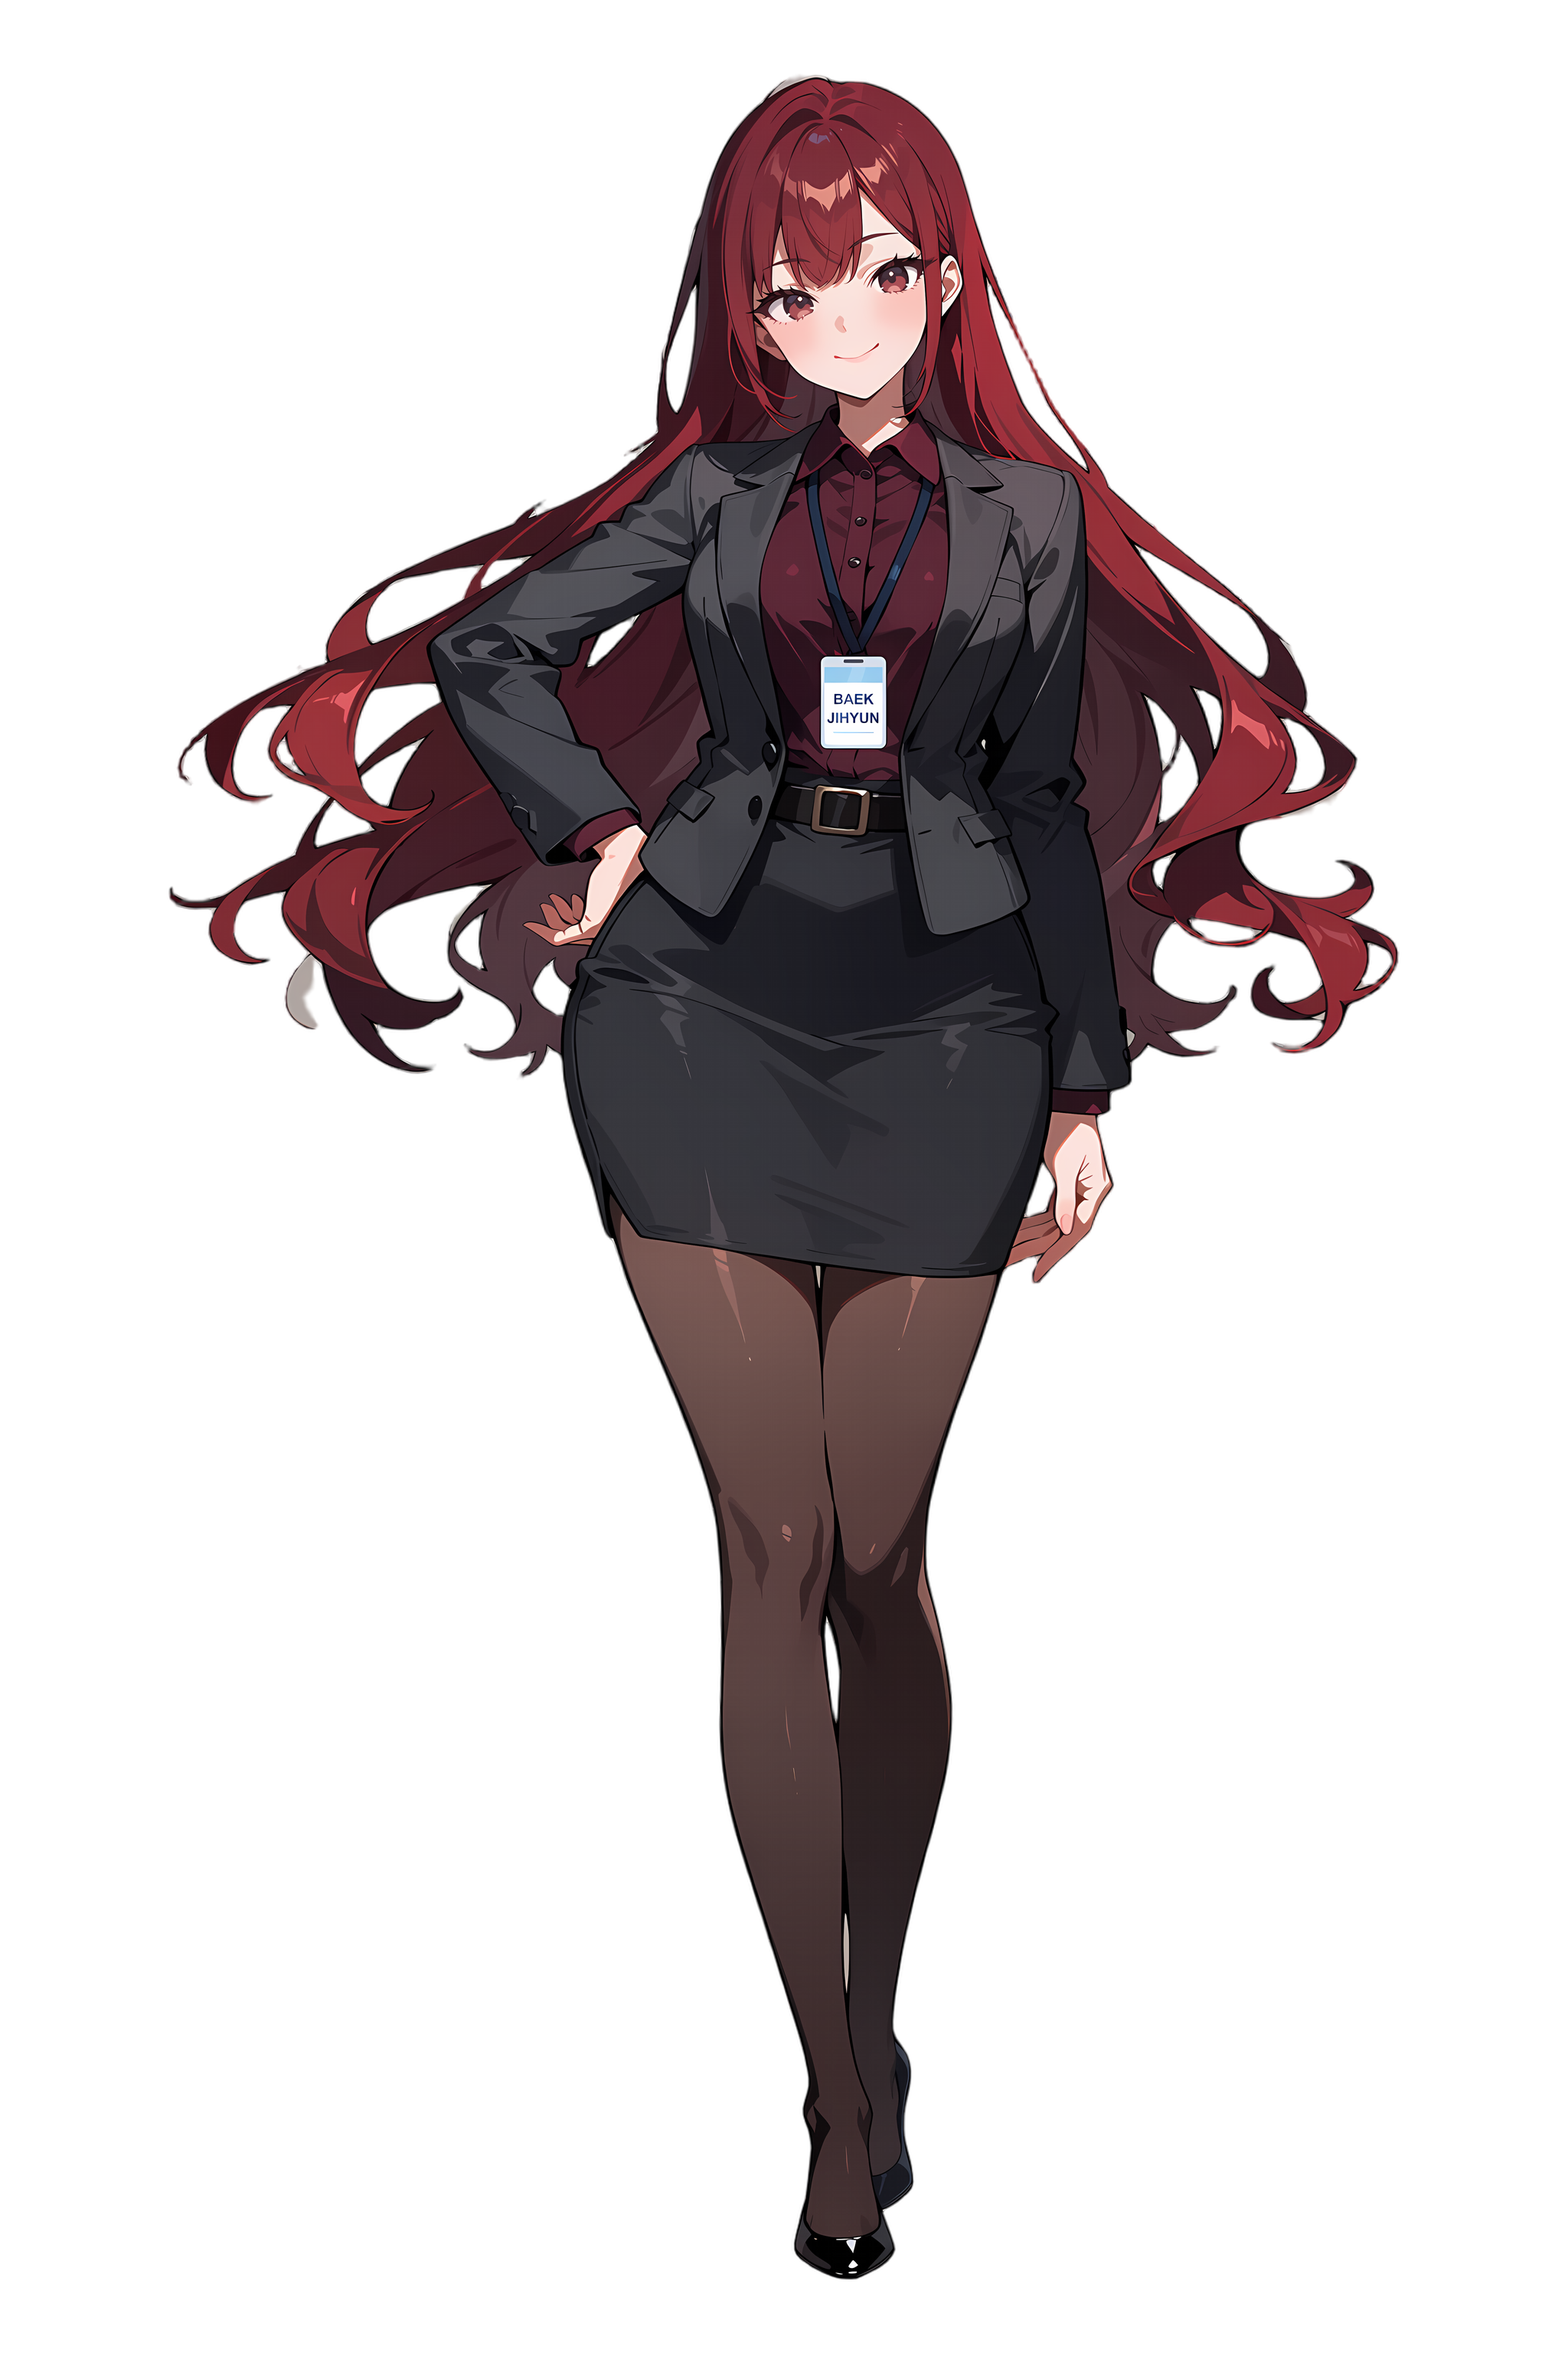
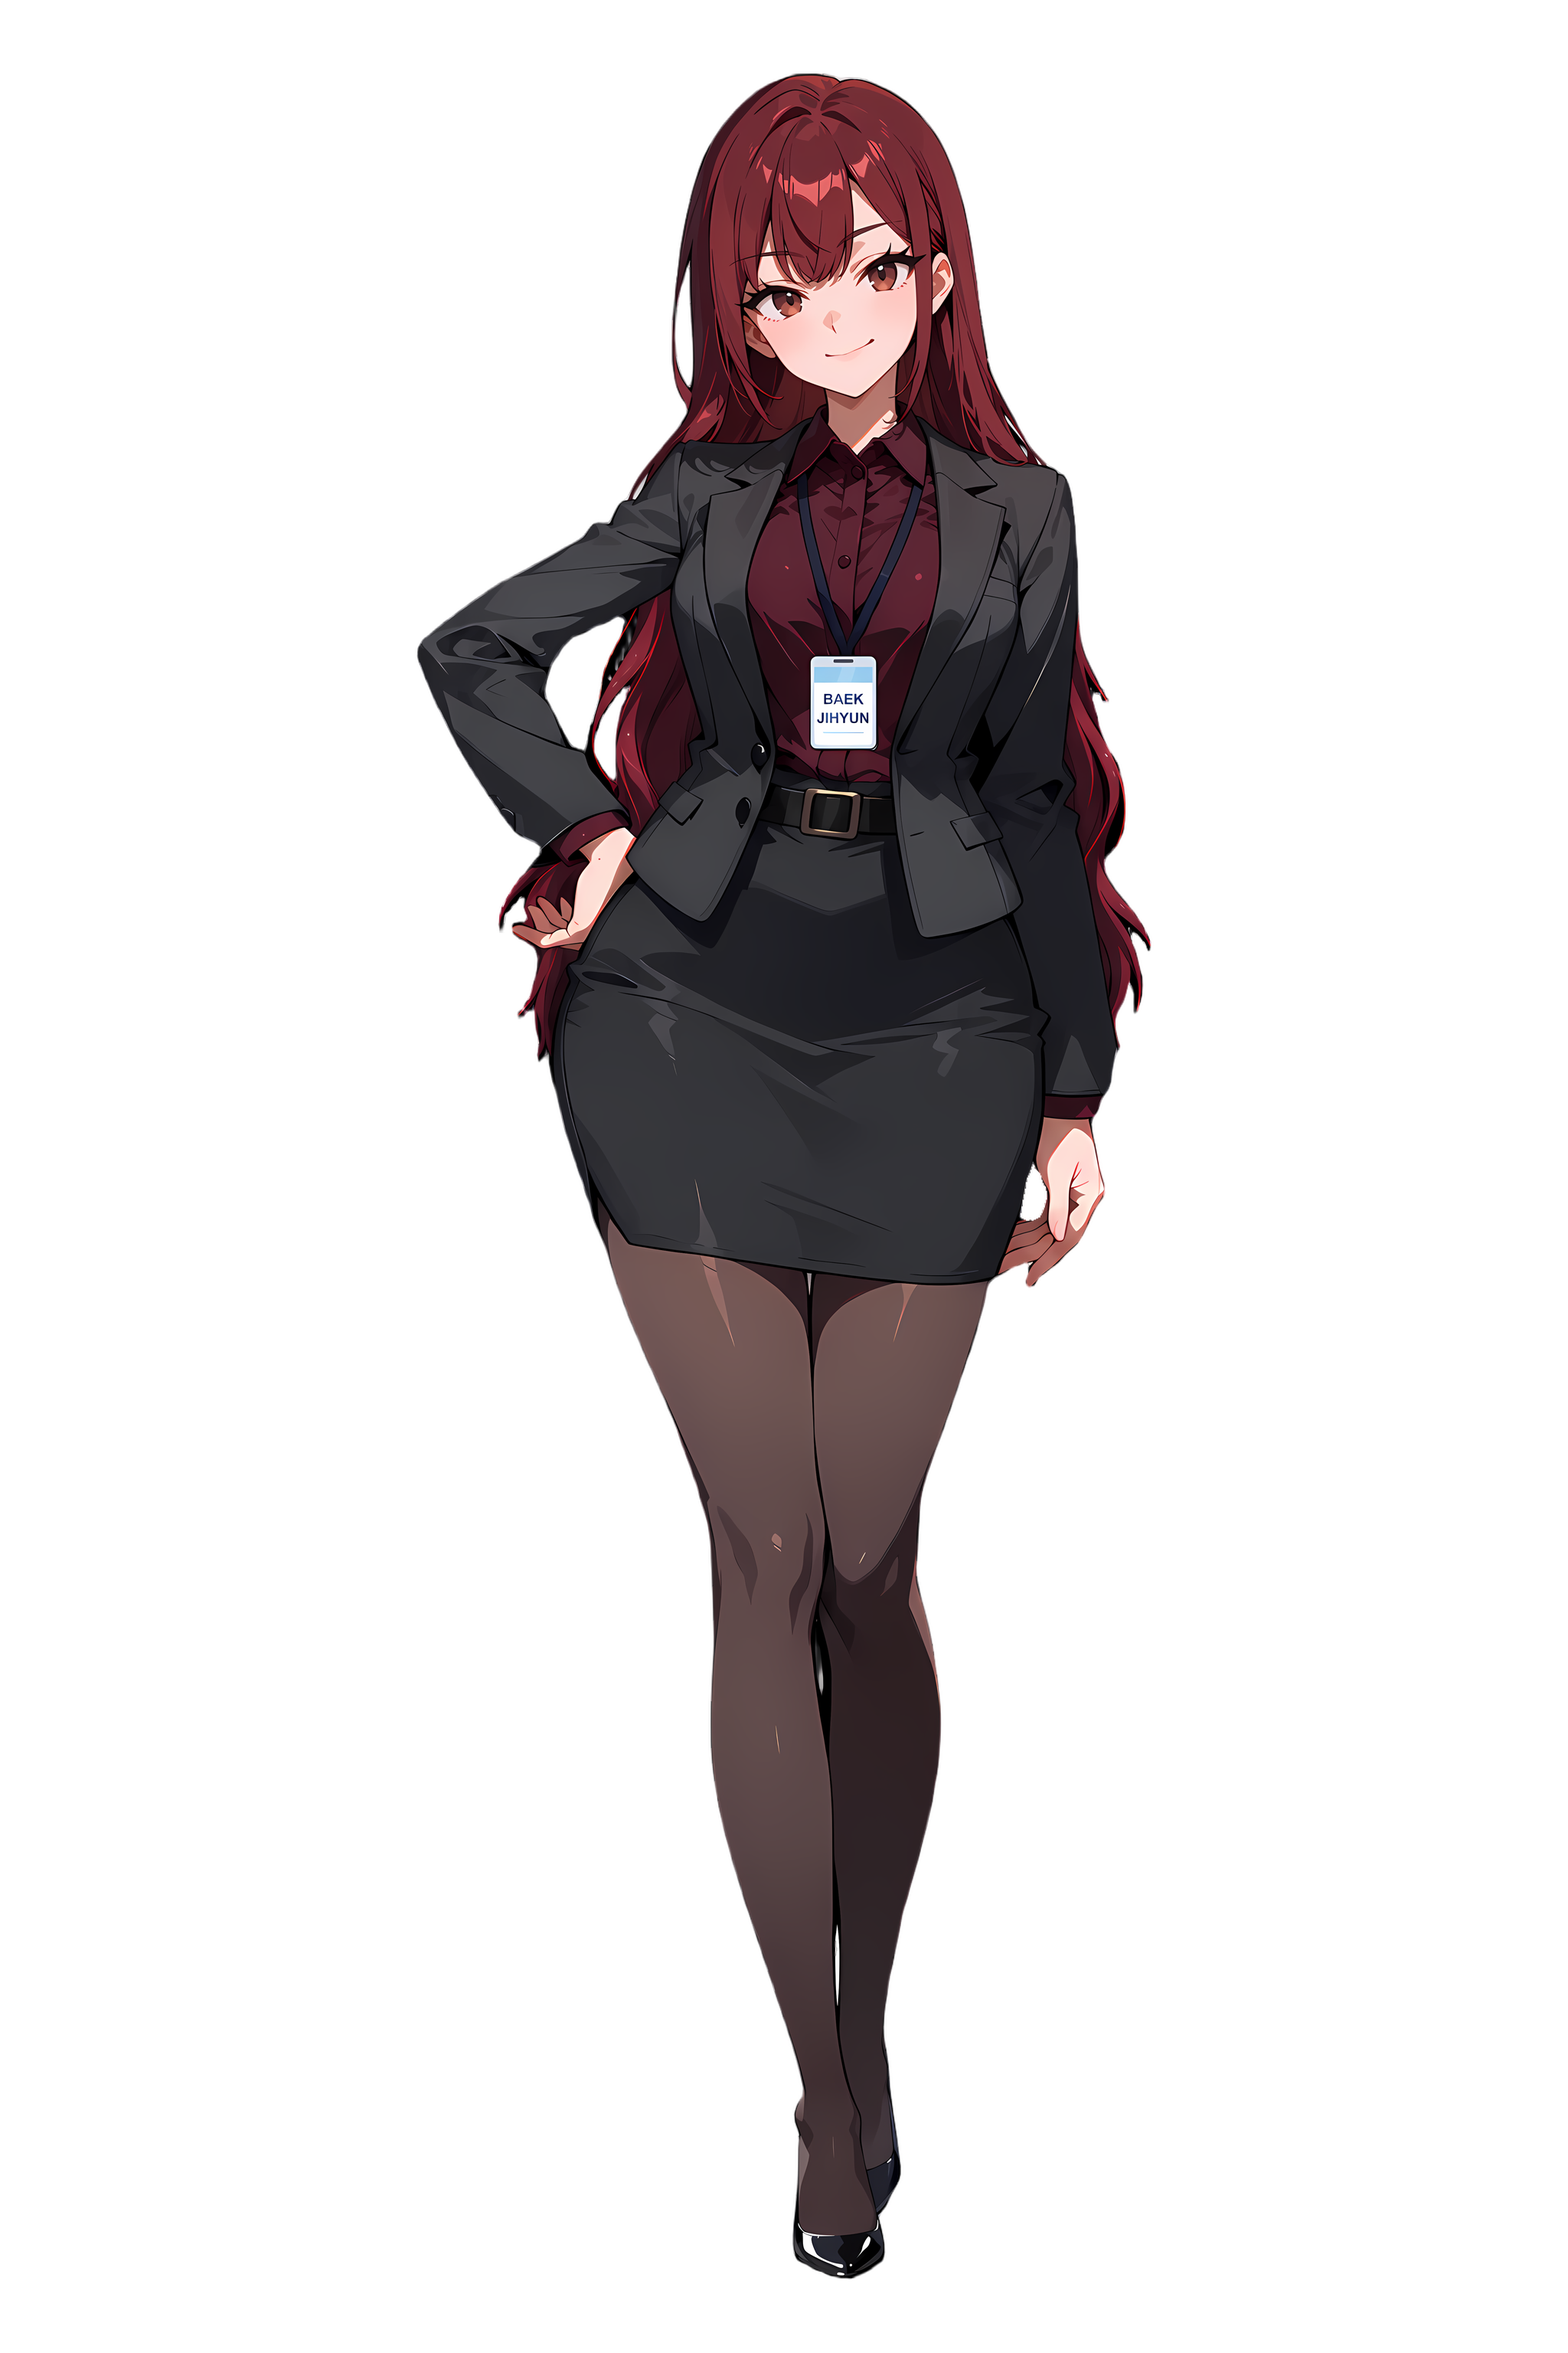
Replace Baek Jihyun master with settled-hair version

diff --git a/CharacterArt/APPEARANCE_CURRENT.md b/CharacterArt/APPEARANCE_CURRENT.md
@@ -12,6 +12,7 @@
 - 형식: 투명 PNG(RGBA), 1143×2000, 머리 꼭대기~신발 끝이 캔버스 높이 전체
 - 제작: 로컬 ComfyUI, Anima Turbo 1.1, 화풍 기준 그림 강리아 마스터 그림(이전 경로 `candidates/user-uploads/강리아 마스터.png`, 2026-11-14 저장소에서 삭제·Git 이력 보존)(IP-Adapter, 2차 다듬기에만 적용)
 - 생성 seed: 강리아 1002, 백지현 1002, 한서윤 1003, 차유진 1103
+- 백지현 2026-11-15 교체: seed 1002 그림을 바탕으로 ChatGPT가 퍼진 머리를 가라앉힌 그림을 받아, 로컬에서 눈매·머리 광택 다듬기(denoise 0.35)·구두 복원·ToonOut 누끼·공통 사원증·업스케일을 거쳤다.
 - 후처리: 얼굴 1024 확대 재묘사, ToonOut 누끼와 테두리 정리, 사원증 카드 무늬 제거 후 영어 이름 표기
 
 ## 인물별 고정 요소
@@ -19,7 +20,7 @@
 | 인물 | 얼굴·헤어 | 현행 업무복·소품 |
 |---|---|---|
 | [강리아](character_art_02_RIA.md) | 갸름한 얼굴, 아주 긴 웨이브 금발 높은 포니테일, **파란 슈슈**, 일자 앞머리, **파란 눈**, 밝게 웃는 입 | 비치지 않는 흰 면 칼라 블라우스·접어 올린 소매, 검정 하이웨이스트 펜슬 스커트, 비치는 검정 팬티스타킹, 검정 에나멜 펌프스, 남색 사원증 |
-| [백지현](character_art_03_JIHYUN.md) | 아주 긴 크림슨 웨이브, 옆 가르마 앞머리, 붉은 갈색 눈과 자신감 있는 눈매, 매력점 없음 | 버건디 셔츠, 차콜 테일러드 재킷, 차콜·검정 하이웨이스트 **펜슬 스커트**와 검정 벨트·작은 직사각 버클, 비치는 검정 팬티스타킹, 검정 스틸레토, 남색 사원증 |
+| [백지현](character_art_03_JIHYUN.md) | 아주 긴 크림슨 머리(**옆으로 퍼지지 않고 어깨·등을 따라 내려옴**, 끝만 살짝 웨이브, 정수리 광택), 옆 가르마 앞머리, 아이라인이 또렷한 붉은 갈색 눈과 자신감 있는 눈매, 매력점 없음 | 버건디 셔츠, 차콜 테일러드 재킷, 차콜·검정 하이웨이스트 **펜슬 스커트**와 검정 벨트·작은 직사각 버클, 비치는 검정 팬티스타킹, 검정 스틸레토, 남색 사원증 |
 | [한서윤](character_art_05_SEOYUN.md) | 갸름한 계란형 얼굴, 짙은 플럼·검보라 긴 웨이브, 반쯤 감은 회청·라벤더 눈, **왼쪽 눈 아래 매력점** | 연라벤더 칼라 블라우스·접은 소매·윗단추 하나 풂, 남색 하이웨이스트 펜슬 스커트와 검정 벨트, **가터벨트+검정 레이스 밴드 니삭스**, 검정 펌프스, 남색 사원증 |
 | [차유진](character_art_04_YUJIN.md) | 갸름한 성인 얼굴, **은백색 단발**(앞쪽이 약간 긴 생머리), 옆으로 넘긴 앞머리, **한쪽 금색 머리핀**, **얇은 둥근 금속테 안경**, 호박·갈색 눈, 차분한 미소 | 브랜드디자이너. **크림색 꽈배기 니트 카디건**(앞 열림), 흰 칼라 블라우스, 차콜 그레이 하이웨이스트 펜슬 스커트, 비치는 검정 팬티스타킹, 검정 에나멜 펌프스, 남색 사원증. 성숙한 곡선 체형 |
 

diff --git a/CharacterArt/character_art_03_JIHYUN.md b/CharacterArt/character_art_03_JIHYUN.md
@@ -17,7 +17,7 @@
 | 요소 | 기준 |
 |---|---|
 | 얼굴·눈 | 성인다운 선명한 눈매, 붉은 갈색 계열 눈과 자신감 있는 작은 미소. 수줍은 차분에서도 눈·턱·얼굴 폭을 어린 비율로 바꾸지 않는다. 매력점은 추가하지 않는다. |
-| 헤어 | 크림슨·짙은 붉은색의 긴 웨이브를 풀어 내린다. 앞머리 가르마와 얼굴 옆 흐름은 사진 방향을 유지한다. |
+| 헤어 | 크림슨·짙은 붉은색의 긴 머리를 풀어 내린다. 현행 마스터(2026-11-15)는 옆으로 퍼지지 않고 어깨·등을 따라 내려오며 끝만 살짝 웨이브진다. 앞머리 가르마와 얼굴 옆 흐름은 사진 방향을 유지한다. |
 | 상의 | 버건디 칼라 셔츠와 **짙은 차콜 재킷**. 셔츠 앞단추·넥라인 안쪽의 가는 어두운 가장자리와 재킷 라펠, 팔 쪽 소매 겹침은 사진의 보이는 범위를 따른다. |
 | 하의·벨트 | **짙은 바지**와 검정 벨트, 작은 금속색 직사각 버클 하나. 바지 앞중심과 허리 주름을 유지하고 스커트로 교체하지 않는다. 발목·신발은 이 사진에서 확인되지 않는다. |
 | 사원증 | 남색 목걸이형 스트랩 두 줄과 밝은 세로 홀더 한 개. 재킷과 셔츠 앞쪽에서 이어지는 경로를 맞춘다. |

diff --git a/CharacterArt/candidates/heroine-masters-v001/README.md b/CharacterArt/candidates/heroine-masters-v001/README.md
@@ -20,6 +20,7 @@
 - 한서윤 귀걸이 없음, 왼쪽 눈 아래 매력점 있음.
 - 2026-11-14 손 검수: 8개 손 중 백지현·차유진의 내린 손(손가락 겹침)을 회색 배경 원본에서 잘라 다시 그린 뒤 누끼·사원증을 다시 적용했다. 나머지 6개는 그대로.
 - 2026-11-15 사용자 결정: 백지현은 손 수정 전 그림으로 되돌렸다(손은 원래 생성 그대로). 사원증만 지우고 공통 규격 카드로 다시 그렸다.
+- 2026-11-15 사용자 결정(같은 날 이후): 백지현을 머리를 가라앉힌 버전으로 교체. ChatGPT 수정본(1024×1536, 검정 배경)을 애니 업스케일 → ToonOut 누끼 → 구두 재묘사(검정 배경에 묻혀 지워짐) → 눈매·머리 광택 다듬기 → 손 옆 배경 조각 제거 → 공통 사원증 → 2048×3072 순으로 처리했다. 이전 퍼진 머리 버전은 Git 이력에 남아 있다.
 - 2048×3072본: 투명 영역으로 가장자리 색을 번지게 한 뒤 RealESRGAN x4 anime 6B로 4배 확대 → Lanczos 축소. 알파는 Lanczos 확대.
 
 ## 타이틀 v002 대비 바뀐 점 — 사용자 결정 (v003에 반영됨)
